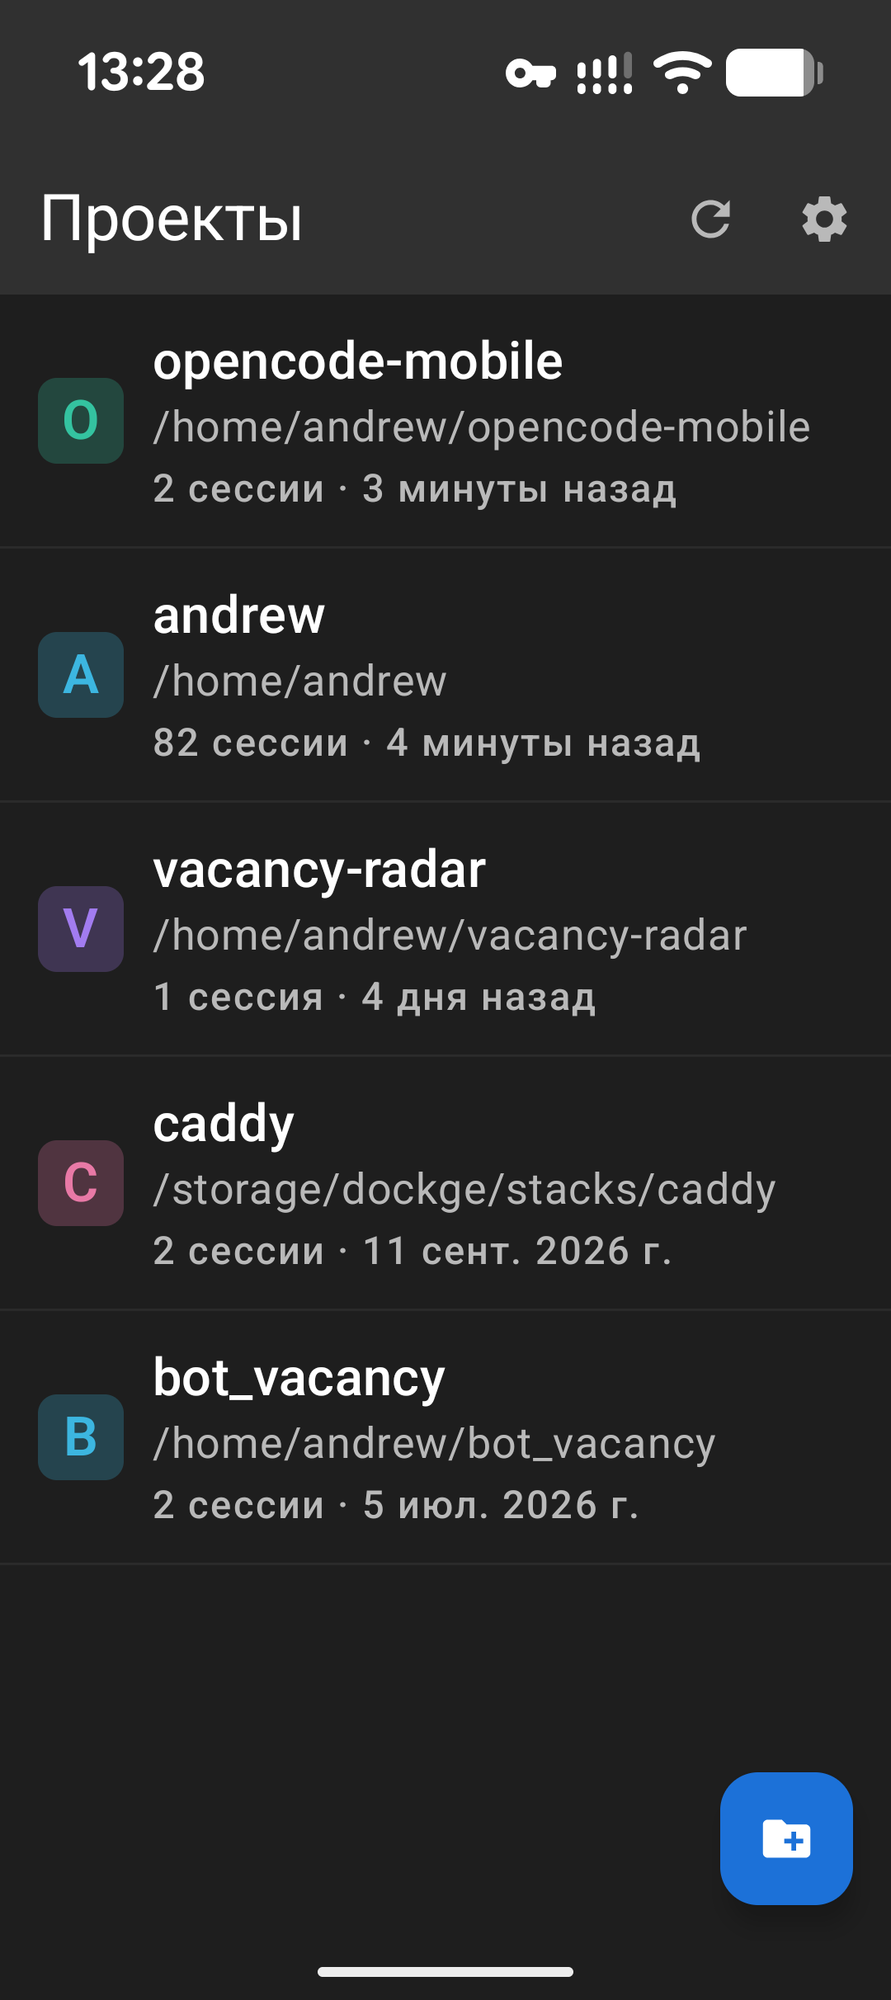
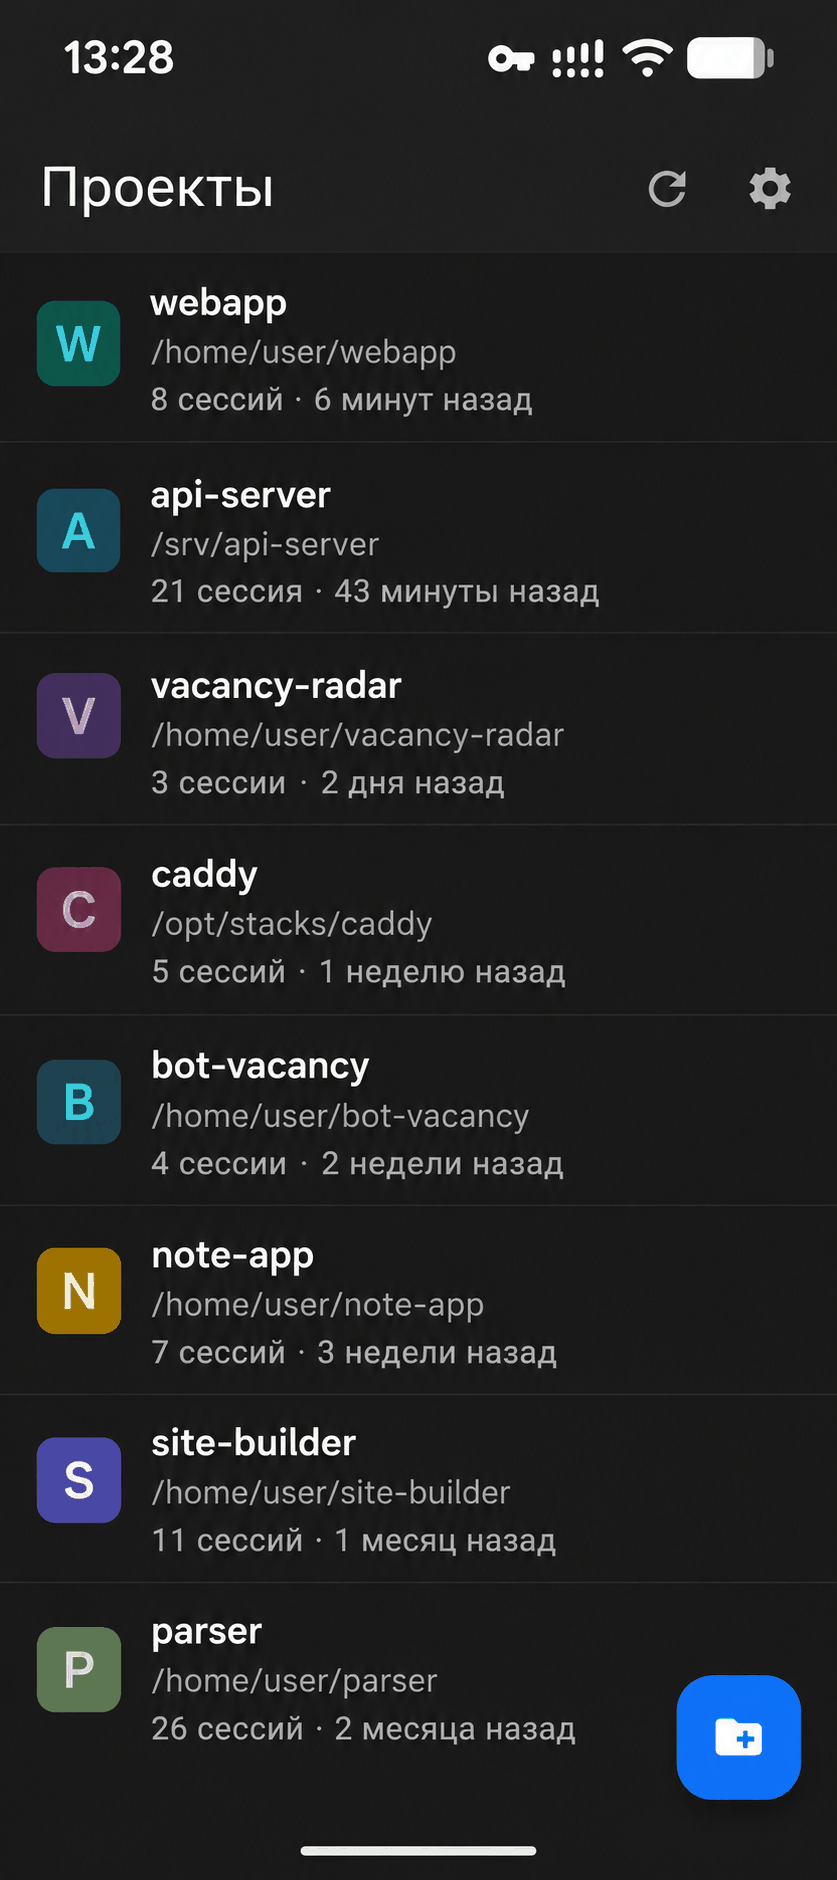
docs: anonymize projects screenshot, drop placeholder images

diff --git a/docs/screenshots/README.md b/docs/screenshots/README.md
@@ -2,22 +2,17 @@
 
 Здесь хранятся снимки экрана приложения для галереи в [корневом README](../../README.md).
 
-## Как заменить заглушки
+## Список файлов
 
-В каталоге уже есть реальные скриншоты для части экранов, для остальных лежат подписанные файлы-заглушки. Чтобы поставить реальные скриншоты, положите свои PNG **с теми же именами** (галерея в README ссылается именно на них):
+Галерея в [корневом README](../../README.md) ссылается на эти имена. Чтобы обновить снимок, замените PNG **с тем же именем**:
 
-| Файл | Экран | Статус |
-|---|---|---|
-| `01-connect.png` | Подключение к серверу | реальный |
-| `02-projects.png` | Список проектов | реальный |
-| `03-sessions.png` | Список сессий | реальный |
-| `04-chat.png` | Чат с моделью | заглушка |
-| `05-model.png` | Выбор модели и агента | заглушка |
-| `06-files.png` | Файлы и изменения | заглушка |
-| `07-context.png` | Панель контекста | заглушка |
-| `08-mcp.png` | MCP-серверы | заглушка |
+| Файл | Экран |
+|---|---|
+| `01-connect.png` | Подключение к серверу |
+| `02-projects.png` | Список проектов |
+| `03-sessions.png` | Список сессий |
 
-Если меняете имена или набор, не забудьте поправить таблицу в `README.md`.
+Если добавите новые экраны, впишите их в таблицу галереи в `README.md` и заведите имена вида `NN-<экран>.png`.
 
 ## Как снять скриншот
 

diff --git a/README.md b/README.md
@@ -69,17 +69,11 @@
 
 ## Скриншоты
 
-Скриншоты лежат в каталоге [`docs/screenshots/`](docs/screenshots/). Положите реальные снимки экрана с указанными ниже именами — галерея подхватит их автоматически.
+| Подключение | Проекты | Сессии |
+|:---:|:---:|:---:|
+| ![Подключение](docs/screenshots/01-connect.png) | ![Проекты](docs/screenshots/02-projects.png) | ![Сессии](docs/screenshots/03-sessions.png) |
 
-| Подключение | Проекты | Сессии | Чат |
-|:---:|:---:|:---:|:---:|
-| ![Подключение](docs/screenshots/01-connect.png) | ![Проекты](docs/screenshots/02-projects.png) | ![Сессии](docs/screenshots/03-sessions.png) | ![Чат](docs/screenshots/04-chat.png) |
-
-| Модель и агент | Файлы и изменения | Контекст | MCP-серверы |
-|:---:|:---:|:---:|:---:|
-| ![Модель](docs/screenshots/05-model.png) | ![Файлы](docs/screenshots/06-files.png) | ![Контекст](docs/screenshots/07-context.png) | ![MCP](docs/screenshots/08-mcp.png) |
-
-> Для «Подключения», «Проектов» и «Сессий» уже лежат реальные снимки. Остальные — подписанные заглушки: замените их своими файлами с теми же именами (см. [`docs/screenshots/README.md`](docs/screenshots/README.md)).
+Скриншоты лежат в каталоге [`docs/screenshots/`](docs/screenshots/); как добавить свои — в [`docs/screenshots/README.md`](docs/screenshots/README.md).
 
 ## Требования
 
